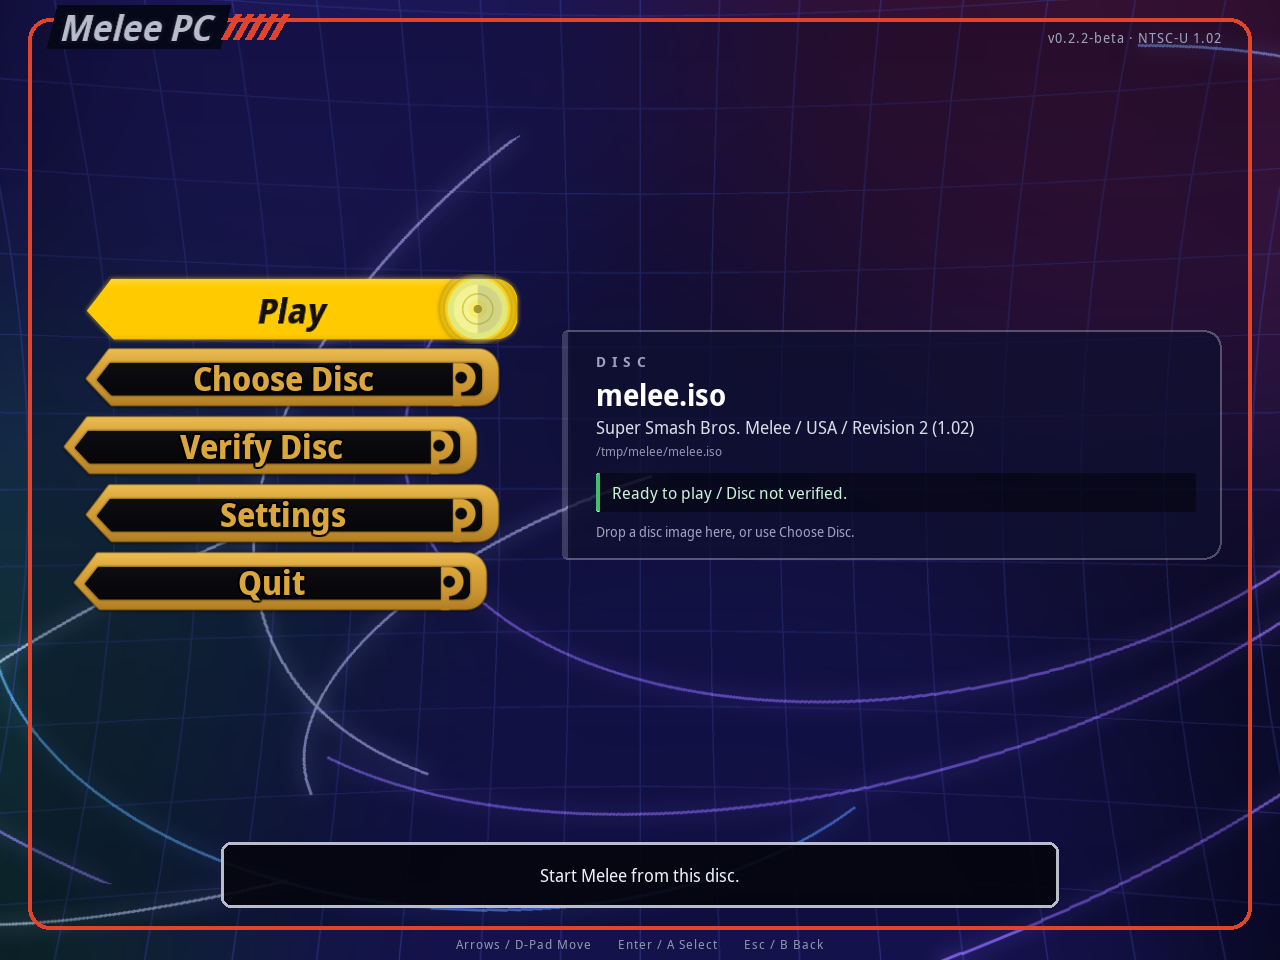
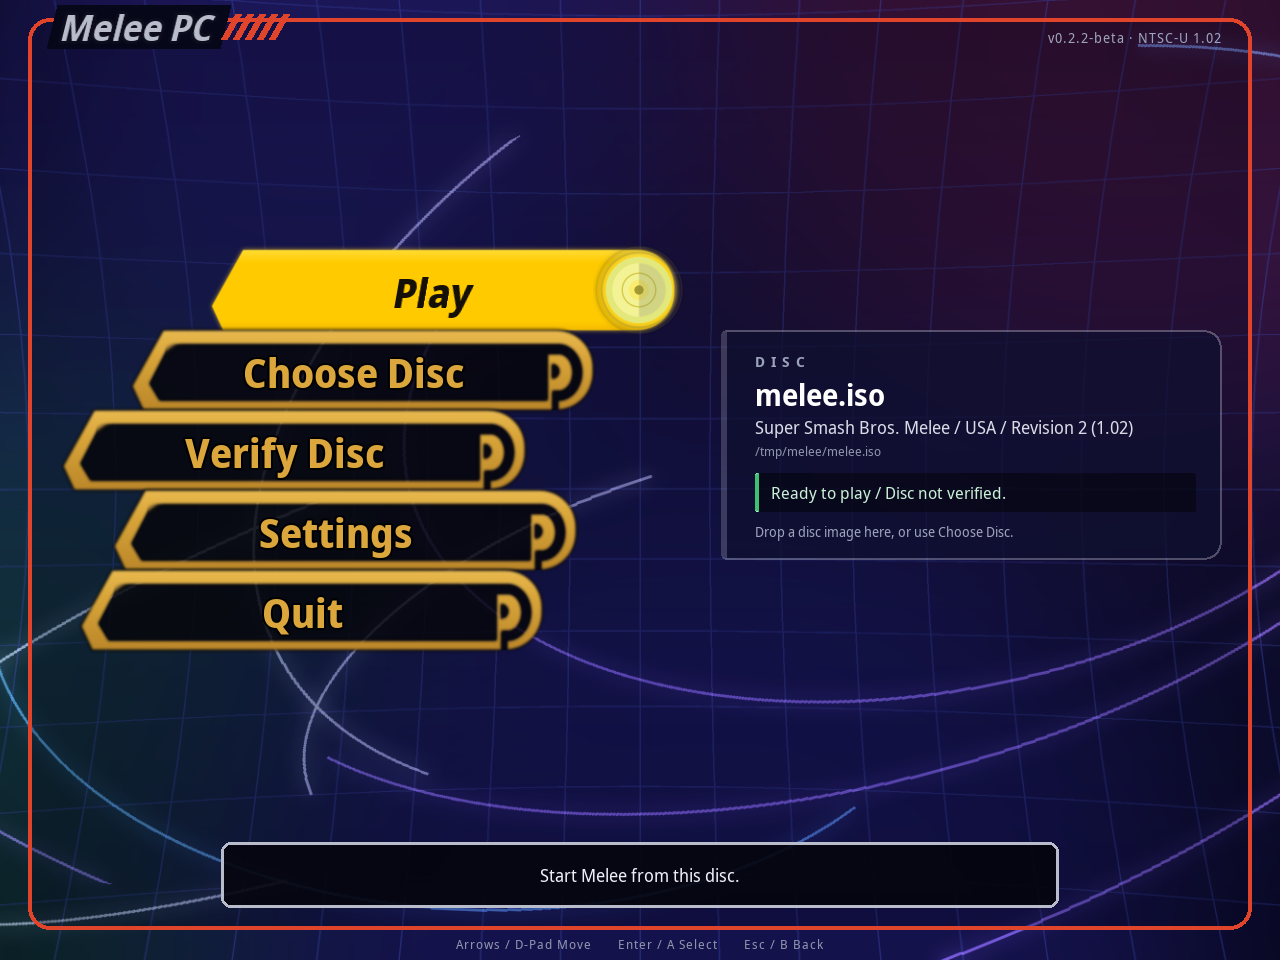
Launcher: Melee's ring tab, and plates stacked touching in its wedge
The tab is drawn the way Melee draws it: the black window stops square,
and a black ring (a little taller than wide, flush with the window's top)
arcs round the right and drops a foot straight down through the bottom
band; the gold it encloses is the P, with a half-disc counter, and the
casing's rounded end wraps the ring. The cursor disc sits on the ring's
centre (a transparent right border places it; the art script prints where).

Plates are Melee's proportions (80 dp of plate, about 6.2 times as wide),
stacked touching, and staggered into the wedge Melee uses, its point at
the middle entry; the offsets are Melee's, as shares of the column. The
selected plate no longer slides out. Smaller windows get smaller names.

Changed region(s): [[0.0312, 0.25, 0.875, 0.6875]]

diff --git a/tools/launcher_art/make_launcher_art.py b/tools/launcher_art/make_launcher_art.py
@@ -50,9 +50,9 @@ DISC_RING = (215, 211, 85)
 # Sprite sheet layout. Sizes are sprite pixels at 2x (the sheet's
 # `resolution: 2x`), so a 112 px plate is 56 dp tall. launcher.rcss repeats
 # these rectangles; keep the two in step.
-PLATE_W, PLATE_H = 480, 136
-SMALL_H = 100
-DISC_SIZE = 160
+PLATE_W, PLATE_H = 480, 180
+SMALL_H = 124
+DISC_SIZE = 184
 # The disc as it sits on a plate's tab: the tab's centre is this far in from
 # the plate's right edge, more than the disc's half width, so the plate's
 # rectangle carries transparent room on the right.
@@ -104,16 +104,21 @@ def rounded_chevron(x0, y0, x1, y1, top_in, bottom_in, radius, steps=12):
 def plate_geometry(w, h, scale=1):
     """Where a plate's parts sit, in sprite pixels times `scale`. The
     proportions are measured off Melee's Main Menu: the gold band is about
-    18% of the plate's height along the top and 12% along the bottom."""
+    18% of the plate's height along the top and 12% along the bottom, and the
+    right end is a black ring around the gold P (see draw_plate)."""
     g = GLOW * scale
     x0, y0, x1, y1 = g, g, w * scale - g, h * scale - g
     bh = y1 - y0
     wy0, wy1 = y0 + bh * 0.18, y1 - bh * 0.12
     wh = wy1 - wy0
-    return dict(x0=x0, y0=y0, x1=x1, y1=y1, bh=bh, wy0=wy0, wy1=wy1,
-                casing=(bh * 0.39, bh * 0.14),
-                wx0=x0 + bh * 0.22, wx1=x1 - bh * 0.24, window=(wh * 0.36, wh * 0.18),
-                stem_x=x1 - bh * 0.70, stem_w=bh * 0.12)
+    # The ring is a little taller than wide; its top runs flush with the
+    # window's top edge.
+    ring_out, ring_in = (wh * 0.42, wh * 0.50), (wh * 0.25, wh * 0.33)
+    cx = x1 - ring_out[0] - bh * 0.14  # the ring's centre, and the cursor disc's
+    cy = wy0 + wh * 0.50
+    return dict(x0=x0, y0=y0, x1=x1, y1=y1, bh=bh, wy0=wy0, wy1=wy1, wh=wh,
+                casing=(bh * 0.39, bh * 0.14), wx0=x0 + bh * 0.22, window=(wh * 0.36, wh * 0.18),
+                wx1=cx - wh * 0.22, cx=cx, cy=cy, ring_out=ring_out, ring_in=ring_in)
 
 
 def ninepatch_rect(h):
@@ -121,22 +126,32 @@ def ninepatch_rect(h):
     the bands and the tab."""
     p = plate_geometry(PLATE_W, h)
     left = int(p["x0"] + p["casing"][0] + 6)
-    right = int(p["stem_x"] - 6)
+    right = int(p["wx1"] - 6)
     top, bottom = int(p["wy0"] + 2), int(p["wy1"] - 2)
     return left, top, right - left, bottom - top
 
 
+def tab_centre(h):
+    """The ring's centre, from the plate's right edge and top, in sprite
+    pixels: where the cursor disc goes."""
+    p = plate_geometry(PLATE_W, h)
+    return PLATE_W - p["cx"], p["cy"]
+
+
 def draw_plate(h, selected):
     """Melee's menu plate. Idle: a soft, glowing gold band around a
-    see-through black window, with a gold P-shaped tab at its right end.
+    see-through black window. At the right end the window stops square, and a
+    black ring arcs from its top edge round the right and drops straight down
+    through the bottom band; the gold it encloses is the P (a small black
+    half disc for its counter), and the casing's rounded end wraps the ring.
     Selected: the whole plate solid yellow, glowing (the cursor disc goes on
-    the tab, as a separate sprite)."""
+    the ring, as a separate sprite)."""
     w = PLATE_W
     W, H = w * SS, h * SS
     g = GLOW * SS
     p = plate_geometry(w, h, SS)
     x0, y0, x1, y1, bh = p["x0"], p["y0"], p["x1"], p["y1"], p["bh"]
-    casing = rounded_chevron(x0, y0, x1, y1, *p["casing"], bh * 0.34)
+    casing = rounded_chevron(x0, y0, x1, y1, *p["casing"], bh * 0.46)
     img = Image.new("RGBA", (W, H), (0, 0, 0, 0))
     mask = Image.new("L", (W, H), 0)
     ImageDraw.Draw(mask).polygon(casing, fill=255)
@@ -146,36 +161,36 @@ def draw_plate(h, selected):
         body = vgradient(W, H, [(0, (255, 226, 70)), (0.2, YELLOW), (0.85, YELLOW), (1, (240, 178, 0))])
         img.paste(body, (0, 0), mask.filter(ImageFilter.GaussianBlur(SS)))
         return img.resize((w, h), Image.LANCZOS)
-    wy0, wy1 = p["wy0"], p["wy1"]
-    window = rounded_chevron(p["wx0"], wy0, p["wx1"], wy1, *p["window"], bh * 0.12)
-    win = Image.new("L", (W, H), 0)
-    ImageDraw.Draw(win).polygon(window, fill=255)
+    wy0, wy1, wh = p["wy0"], p["wy1"], p["wh"]
+    cx, cy, (rox, roy), (rix, riy) = p["cx"], p["cy"], p["ring_out"], p["ring_in"]
+    # Everything black: the window, square at its right end ...
+    black = Image.new("L", (W, H), 0)
+    d = ImageDraw.Draw(black)
+    d.polygon(rounded_chevron(p["wx0"], wy0, p["wx1"] + wh * 0.02, wy1, *p["window"], 1, steps=1), fill=255)
+    # ... the ring's right half, its top joined to the window's top edge ...
+    d.pieslice((cx - rox, cy - roy, cx + rox, cy + roy), -90, 90, fill=255)
+    d.pieslice((cx - rix, cy - riy, cx + rix, cy + riy), -90, 90, fill=0)
+    d.rectangle((p["wx1"], cy - roy, cx, cy - riy), fill=255)
+    # ... its foot dropping straight down through the bottom band ...
+    d.rectangle((cx - wh * 0.11, cy + riy, cx - wh * 0.01, y1), fill=255)
+    d.rectangle((cx - wh * 0.11, cy + riy, cx, cy + roy), fill=255)  # the ring's lower end
+    # ... and the P's counter, a half disc against its stem.
+    ccx, ccy, rc = cx - wh * 0.12, cy - wh * 0.02, wh * 0.13
+    d.pieslice((ccx - rc, ccy - rc, ccx + rc, ccy + rc), -90, 90, fill=255)
+    # The casing's glowing gold, everywhere the black is not.
     gold = vgradient(W, H, [(0, (236, 190, 84)), (0.35, (218, 166, 58)), (1, (184, 132, 40))])
-    # The window, black but see-through, so the grid shows in it.
-    img.paste((6, 6, 10, 205), (0, 0), win)
-    # The band: the casing less the window, blurred so it glows rather than
-    # edges, over a fainter, wider glow.
-    band = ImageChops.subtract(mask, win)
+    band = ImageChops.subtract(mask, black)
     glow = band.filter(ImageFilter.GaussianBlur(g * 0.4)).point(lambda v: int(v * 0.6))
     layer = Image.new("RGBA", (W, H), (0, 0, 0, 0))
     layer.paste(gold, (0, 0), glow)
     img.alpha_composite(layer)
+    # The black, see-through, so the grid shows in it (clipped to the casing:
+    # the ring's foot stops at its bottom edge).
+    layer = Image.new("RGBA", (W, H), (0, 0, 0, 0))
+    layer.paste((6, 6, 10, 205), (0, 0), ImageChops.multiply(black, mask))
+    img.alpha_composite(layer)
     layer = Image.new("RGBA", (W, H), (0, 0, 0, 0))
     layer.paste(gold, (0, 0), band.filter(ImageFilter.GaussianBlur(SS * 3)))
-    img.alpha_composite(layer)
-    # The tab: a gold P at the window's right end, its stem running down
-    # through the bottom band, its bowl's counter see-through black.
-    tab = Image.new("L", (W, H), 0)
-    d = ImageDraw.Draw(tab)
-    stem_x, stem_w = p["stem_x"], p["stem_w"]
-    cy = wy0 + (wy1 - wy0) * 0.45
-    r_out, r_in = bh * 0.22, bh * 0.09
-    d.rectangle((stem_x, wy0 + bh * 0.06, stem_x + stem_w, y1), fill=255)
-    d.pieslice((stem_x + stem_w - r_out, cy - r_out, stem_x + stem_w + r_out, cy + r_out), -90, 90, fill=255)
-    d.rectangle((stem_x, cy - r_out, stem_x + stem_w, cy + r_out), fill=255)
-    d.ellipse((stem_x + stem_w - r_in, cy - r_in, stem_x + stem_w + r_in, cy + r_in), fill=0)
-    layer = Image.new("RGBA", (W, H), (0, 0, 0, 0))
-    layer.paste(gold, (0, 0), tab.filter(ImageFilter.GaussianBlur(SS * 1.5)))
     img.alpha_composite(layer)
     return img.resize((w, h), Image.LANCZOS)
 
@@ -343,6 +358,9 @@ def main():
         lines.append(f"/* {name} edges: {edges} */")
     lines.append(f"disc: 0px {disc_y}px {DISC_SIZE}px {DISC_SIZE}px;")
     lines.append(f"disc-plate: 0px {disc_y}px {DISC_SIZE + DISC_PAD}px {DISC_SIZE}px;")
+    for name, h in [("plate", PLATE_H), ("small", SMALL_H)]:
+        right, top = tab_centre(h)
+        lines.append(f"/* {name} ring centre: {right / 2:g}dp from the right, {top / 2:g}dp down */")
     for i, n in enumerate(["arrow-l", "arrow-r", "arrow-l-dark", "arrow-r-dark"]):
         lines.append(f"{n}: {ARROWS_X + i * (ARROW_W + 8)}px {disc_y}px {ARROW_W}px {ARROW_H}px;")
     print("\n".join(lines))
